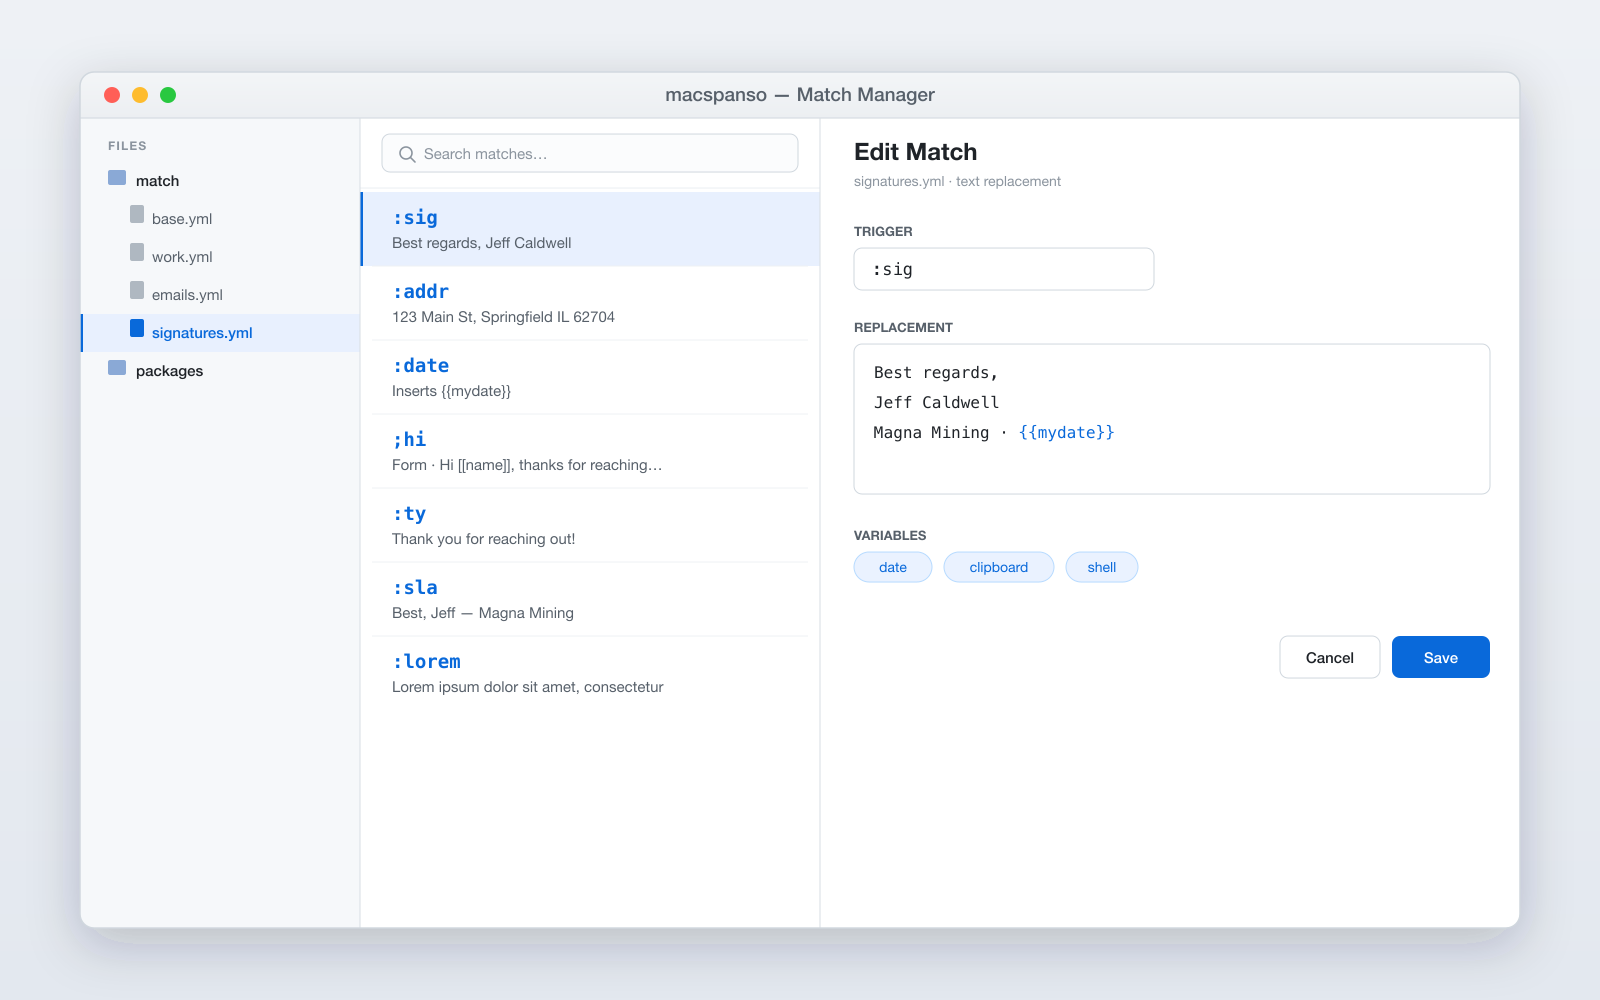
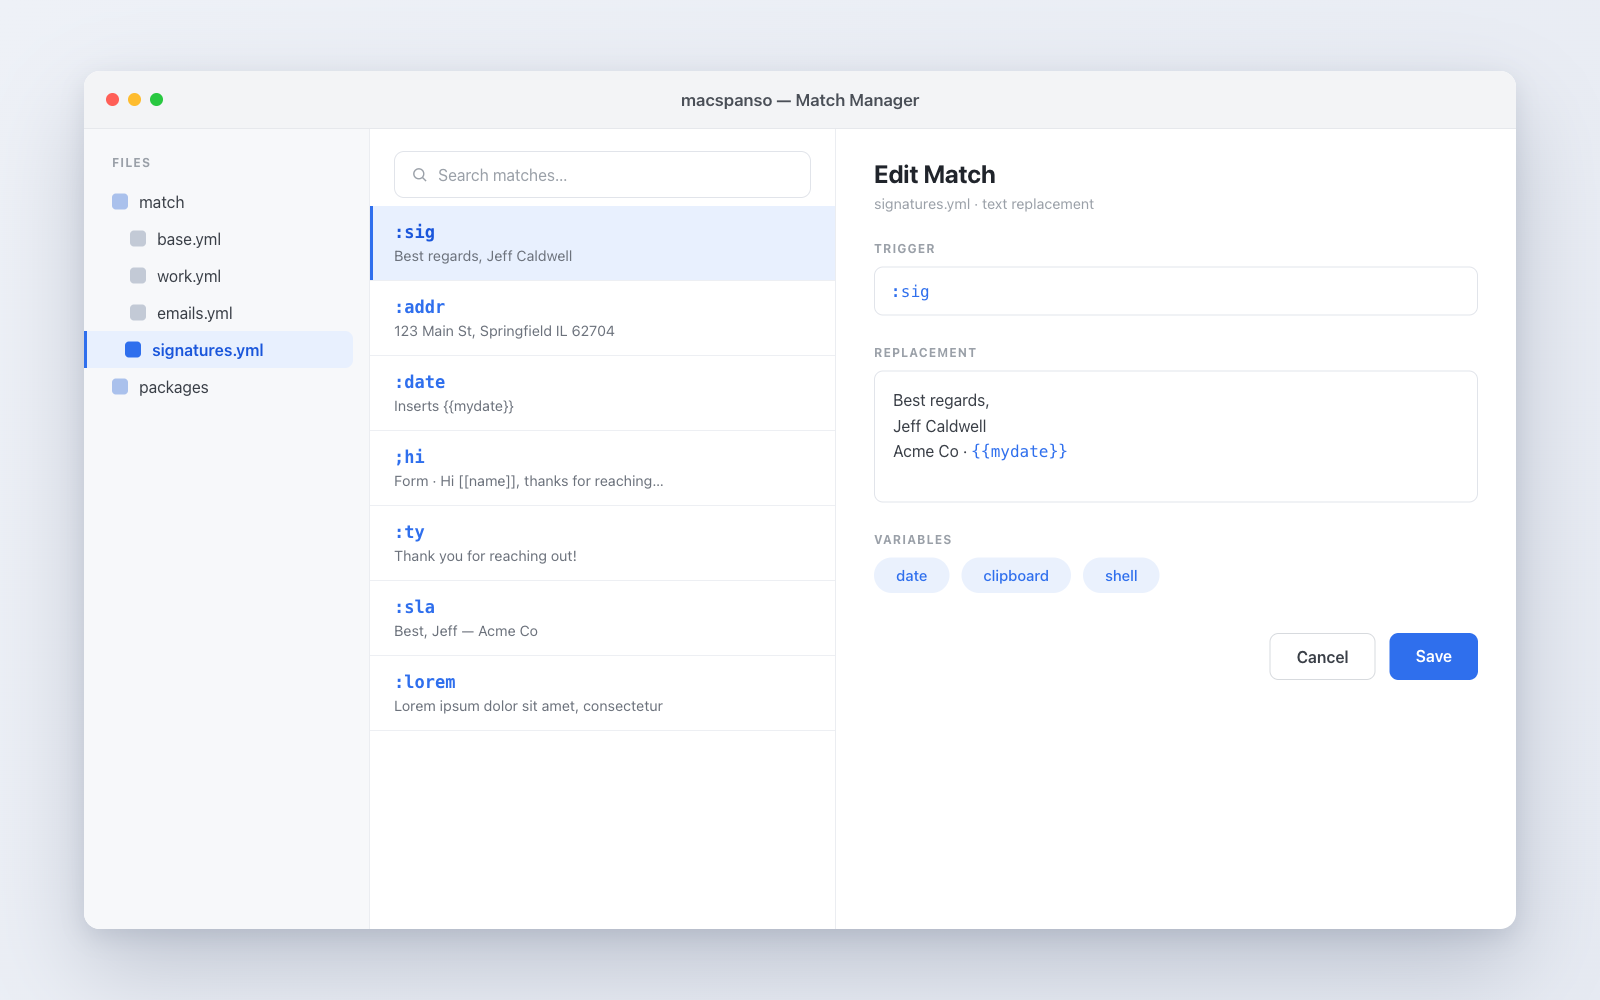
docs: align GitHub stars badge; drop company name from screenshot mockup
Render the badge images as blocks and let the stars anchor hug its image so it lines up with the macOS and license badges. Re-render the hero screenshot mockup with a neutral 'Acme Co' placeholder instead of a real company name.

diff --git a/docs/index.html b/docs/index.html
@@ -347,7 +347,12 @@
       align-items: center;
     }
 
-    .badges img { height: 20px; }
+    .badges img { height: 20px; display: block; }
+
+    .badges a {
+      display: inline-flex;
+      align-items: center;
+    }
 
     .hero-brew {
       max-width: 560px;
